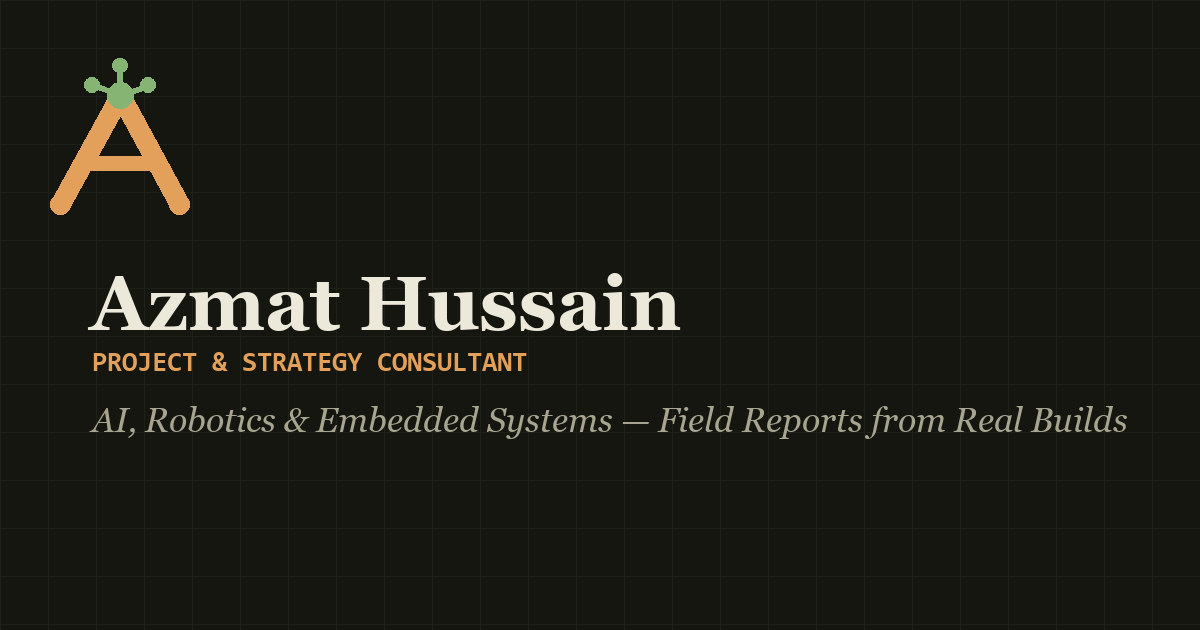
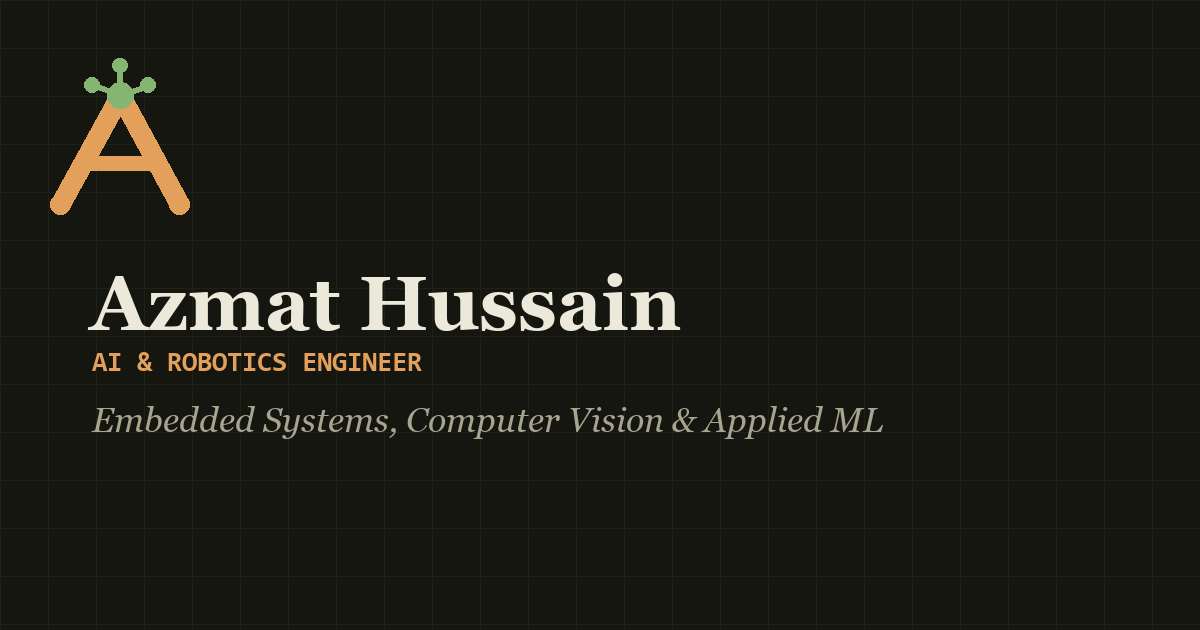
Reposition from "Project & Strategy Consultant" to "AI & Robotics Engineer"
The audience for this portfolio is engineering recruiters, PhD admissions
committees, and research collaborators — a generic consultant framing
undersold the actual substance (IEEE-published research, hands-on
robotics/embedded/CV work, a real Product Architect title at TPL
Trakker). Led with the technical identity instead, everywhere a single
framing has to carry the whole first impression:

- Meta description, Open Graph and Twitter title/description now lead
  with "AI & Robotics Engineer" plus concrete specifics (embedded
  systems, computer vision, applied ML, IEEE-published research) instead
  of the generic consultant line.
- Regenerated the OG share-preview image to match (was still showing
  "PROJECT & STRATEGY CONSULTANT" as baked-in image text).
- About bio's opening sentence now leads with the same framing, with the
  strategic/product angle kept as a supporting point rather than the
  headline.
- Reordered the hero's rotating typed tagline to lead with "Developing
  Commercial-Ready AI & Robotics Solutions" instead of the consultant
  line, and reworded that line to reference the real "Product Architect"
  title rather than a generic "Strategy Consultant" label, now last in
  the rotation instead of first.

The browser tab title change from the previous commit ("Azmat Hussain"
alone) still stands — this just makes the fuller descriptions consistent
with it instead of contradicting it everywhere else on the page.

Changed region(s): [[0.0617, 0.6333, 0.9558, 0.6937], [0.0617, 0.5429, 0.4317, 0.6032]]

diff --git a/index.html b/index.html
@@ -6,16 +6,16 @@
     <meta name="viewport" content="width=device-width, initial-scale=1.0">
 
     <!--=============== SEO ===============-->
-    <meta name="description" content="Azmat Hussain — Project & Strategy Consultant working across AI, robotics, embedded systems, and IoT. Case studies from real hardware and software builds.">
+    <meta name="description" content="Azmat Hussain — AI & Robotics Engineer specializing in embedded systems, computer vision, and applied machine learning. IEEE-published researcher building AI-driven robotics, IoT, and embedded solutions from concept to deployment.">
     <link rel="canonical" href="https://azmat-h.vercel.app/">
     <meta property="og:type" content="website">
-    <meta property="og:title" content="Azmat Hussain — Project & Strategy Consultant">
-    <meta property="og:description" content="AI, robotics, embedded systems, and IoT — case studies from real hardware and software builds.">
+    <meta property="og:title" content="Azmat Hussain — AI & Robotics Engineer">
+    <meta property="og:description" content="AI & Robotics Engineer building embedded, computer vision, and IoT systems — from IEEE-published research to deployed products.">
     <meta property="og:url" content="https://azmat-h.vercel.app/">
     <meta property="og:image" content="https://azmat-h.vercel.app/assets/img/og-image.png">
     <meta name="twitter:card" content="summary_large_image">
-    <meta name="twitter:title" content="Azmat Hussain — Project & Strategy Consultant">
-    <meta name="twitter:description" content="AI, robotics, embedded systems, and IoT — case studies from real hardware and software builds.">
+    <meta name="twitter:title" content="Azmat Hussain — AI & Robotics Engineer">
+    <meta name="twitter:description" content="AI & Robotics Engineer building embedded, computer vision, and IoT systems — from IEEE-published research to deployed products.">
     <meta name="twitter:image" content="https://azmat-h.vercel.app/assets/img/og-image.png">
 
     <!--=============== FAVICON ===============-->
@@ -567,8 +567,8 @@
                     </style>
 
                     <p>
-                        As a dedicated Project & Strategy Consultant, I specialize in transforming complex concepts into impactful, deployable solutions. 
-                        My passion lies in driving innovation by merging strategic foresight with comprehensive technical insight, bringing cutting-edge 
+                        As an AI & Robotics Engineer, I specialize in transforming complex concepts into impactful, deployable solutions.
+                        My passion lies in driving innovation by merging deep technical execution with strategic product thinking, bringing cutting-edge
                         technologies to fruition from initial ideation to final implementation.
                     </p>
                     <p>
@@ -1056,8 +1056,8 @@
     <script>
         // <!-- typed js effect starts -->
         var typed = new Typed(".animated-text", {
-            strings: ["Driving Innovation as a Project &amp; Strategy Consultant", "Developing Commercial-Ready AI &amp; Robotics Solutions", 
-                      "Deploying Scalable IoT Architectures", "Designing Robust Embedded Hardware &amp; Software Systems"],
+            strings: ["Developing Commercial-Ready AI &amp; Robotics Solutions", "Designing Robust Embedded Hardware &amp; Software Systems",
+                      "Deploying Scalable IoT Architectures", "Driving Innovation as an AI &amp; Robotics Product Architect"],
             loop: true,
             typeSpeed: 50,
             backSpeed: 25,
